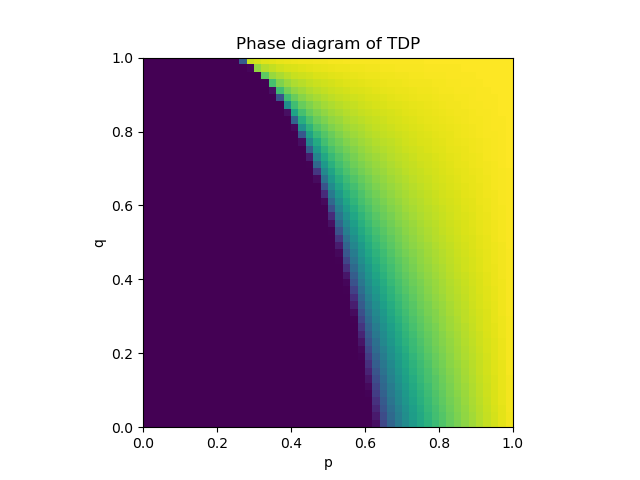
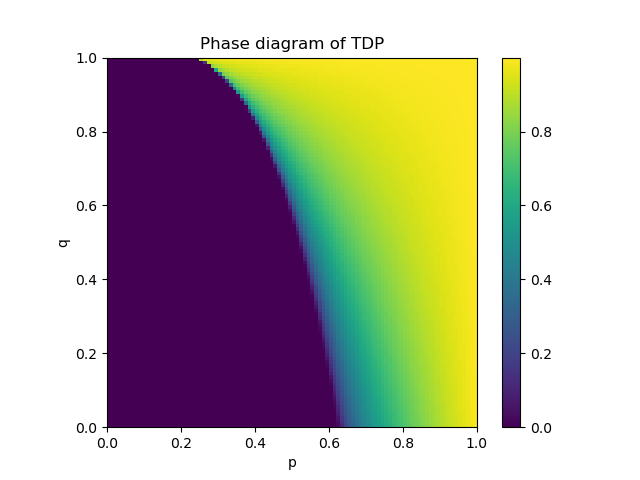
Generated phase diagram

diff --git a/terminal.py b/terminal.py
@@ -1,4 +1,5 @@
 # libraries
+from concurrent.futures import ThreadPoolExecutor
 from matplotlib import pyplot as plt
 from numpy import abs, arange, array, zeros
 # models
@@ -7,6 +8,7 @@ from models.scanlon_kalahari.main import scanlon_kalahari
 from models.tricritical.main import tricritical
 # analysis
 from cluster_dynamics import analyse_changes
+from cluster_equivalences import establish_equivalences
 from cluster_labelling import label_clusters
 from cluster_tracking import track_clusters
 from plot_density import plot_density
@@ -15,37 +17,38 @@ from render_simulation import render_simulation
 from utils import load_automaton_data
 
 
+
 if __name__ == '__main__':
     """ Write automated scripts here """
 
-    # phase transition
-    # p_range = arange(0, 1, 0.01)
-    # densities = zeros(len(p_range))
+    p_range = arange(0, 1, 0.01)
+    q_range = arange(0, 1, 0.01)
+    grid = zeros((len(p_range), len(q_range)))
 
-    # for i, p in enumerate(p_range):
-    #     print(f"p: {p}")
-    #     densities[i] = tricritical(p, 0,  save = False)
+    for i, q in enumerate(q_range):
+        for j, p in enumerate(p_range):
+            print(f"p: {p:.2f}, q: {q:.2f}")
+            grid[i, j] = tricritical(p, q, 24, False)
 
-    # plt.title("Bifurcation diagram of TDP for q = 0")
-    # plt.xlabel("p")
-    # plt.ylabel("mean density")
-    # plt.plot(p_range, densities)
-    # plt.show()
-    # plt.savefig("bifurcation_diagram.png")
-
-    # phase diagram
-    p_range = arange(0, 1, 0.1)
-    q_range = arange(0, 1, 0.1)
-    densities = zeros((len(p_range), len(q_range)))
-
-    for i, p in enumerate(p_range):
-        for j, q in enumerate(q_range):
-            print(f"p: {p}, q: {q}")
-            densities[j, i] = tricritical(p, q, 24, False)
-    
     plt.title("Phase diagram of TDP")
     plt.xlabel("p")
     plt.ylabel("q")
-    plt.imshow(densities, origin="lower", extent=[0, 1, 0, 1])
+    plt.imshow(grid, origin="lower", extent=[0, 1, 0, 1])
+    plt.colorbar()
     plt.show()
     plt.savefig("phase_diagram.png")
+
+    # automaton_data = load_automaton_data("tricritical", 0)
+    # time_series, info = automaton_data["time_series"], automaton_data["info"]
+    # lattice_1, lattice_2 = label_clusters(time_series[0]), label_clusters(time_series[1])
+
+    # track_clusters(lattice_1, lattice_2)
+    # establish_equivalences(lattice_1, lattice_2)
+
+    # plt.subplot(1, 2, 1)
+    # plt.title("Lattice 1")
+    # plt.imshow(lattice_1)
+    # plt.subplot(1, 2, 2)
+    # plt.title("Lattice 2")
+    # plt.imshow(lattice_2)
+    # plt.show()
